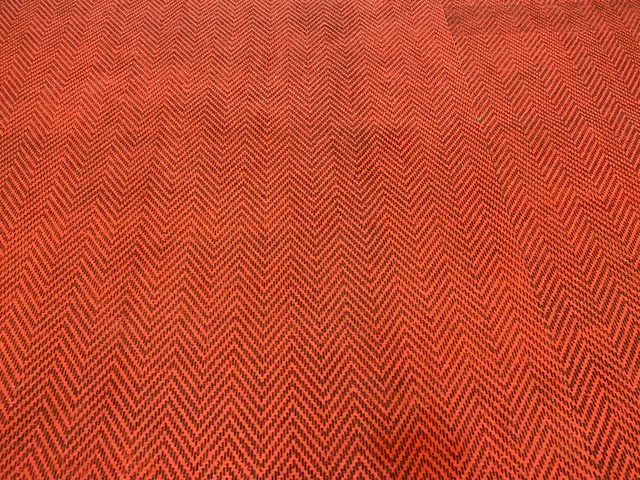
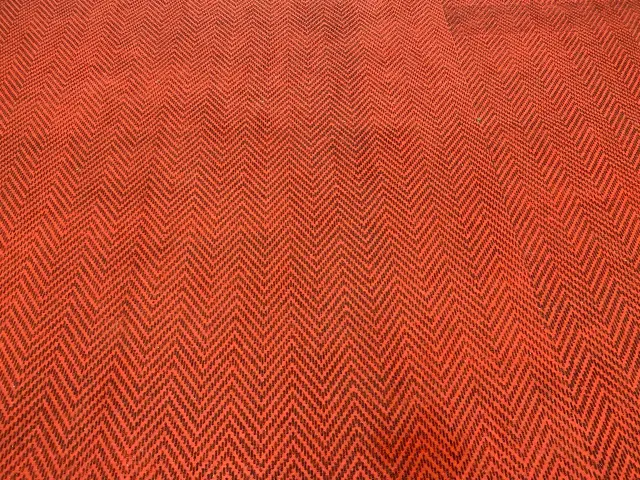
Perf: AVIF hero, responsive gartex-2, fix JPG story-bg
Hero poster:
- Restructure from poster+<img> fallback to <picture>+<video>
- AVIF sources at 640w/1280w/1920w (74KB webp → 44KB avif, −40%)
- Preload updated to type="image/avif" imagesrcset

Products index gartex-2 (356KB, no srcset):
- Responsive <picture> with AVIF + webp at 800w/1200w
- Desktop loads 1200w webp (139KB) instead of 1920w (356KB)

Non-woven story background (692KB JPG, served to all browsers):
- Wrap in <picture> with webp <source>; JPG remains as fallback
- Modern browsers now load 150KB webp instead of 338KB JPG

Coir category thumbnail: recompressed 640w webp q75 (143KB → 115KB)

diff --git a/src/styles/global.css b/src/styles/global.css
@@ -817,6 +817,12 @@ button {
   z-index: 0;
 }
 
+.hero__bg-picture {
+  display: block;
+  position: absolute;
+  inset: 0;
+}
+
 .hero__bg img,
 .hero__bg-video {
   width: 100%;